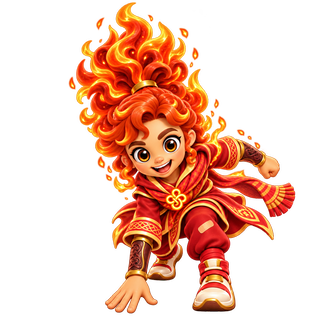
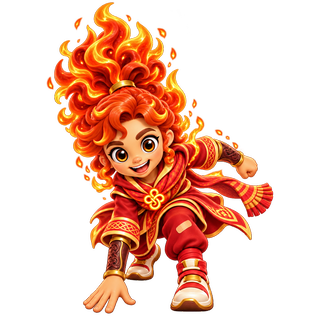
Surge wave 1 complete: Nova and Tidal for all seven Keepers (Codex brief 15)
Codex's final brief 15 set replaces the part-1 forms: fourteen figures,
each placed by face to match its Keeper's normal sprite, feet on the
same line. Sina's Tidal lands, so every Keeper is playable again (the
picker greys out none). Codex's 14 icons are filed for the HUD later.

diff --git a/level1/index.html b/level1/index.html
@@ -5202,16 +5202,16 @@ const FORM = { fire:'Nova', water:'Tidal', wood:'Wild', earth:'Titan', metal:'Ch
 const FORM_PAL = { fire:['#FF8A3A', '#FFB35A', '#FF6A2A', '#FFD08A', '#FF9A4A'], water:['#4E9BE0', '#8FD0FF', '#2F78C8', '#BFE6FF', '#5FB0F0'],
   wood:['#6FBF4A', '#A8E07A', '#4E9A34', '#C8F09A', '#7CCB5A'], earth:['#E6B23A', '#F5D27A', '#C8902A', '#FFE2A0', '#E8B85A'],
   metal:['#C9D3DB', '#E8EEF6', '#9AA8B8', '#FFFFFF', '#B8C4D8'] };
-// the forms Codex has painted so far (brief 15: every Nova, and every Tidal but Sina's; brief 16 brings Wild, Titan and
+// the forms Codex has painted so far (brief 15, complete 2026-10-07: Nova and Tidal for all seven; brief 16 brings Wild, Titan and
 // Chrome); until a form's art lands, its poster and its ride show the Keeper in the element's light
-const SURGE_ART = { 1:['nova', 'tidal'], 2:['nova', 'tidal'], 3:['nova', 'tidal'], 4:['nova', 'tidal'], 5:['nova', 'tidal'], 6:['nova', 'tidal'], 7:['nova'] };
+const SURGE_ART = { 1:['nova', 'tidal'], 2:['nova', 'tidal'], 3:['nova', 'tidal'], 4:['nova', 'tidal'], 5:['nova', 'tidal'], 6:['nova', 'tidal'], 7:['nova', 'tidal'] };
 const formKey = () => FORM[keeperEl].toLowerCase();
 // a form only surges once Codex has painted it; until then this Keeper and element have no Surge at all (A, 2026-10-07: "since
 // none of the images are done we can hold off on the transformations that dont have them yet")
 const surgeArt = () => (SURGE_ART[keeper] || []).includes(formKey());
 function formArt() {
   const k = formKey(), n = 'k' + keeper + '-' + k;
-  if ((SURGE_ART[keeper] || []).includes(k)) { if (!IMG[n]) load(n, `art4/surge/k${keeper}-${k}.png?v=2`); if (ok(IMG[n])) return IMG[n]; }
+  if ((SURGE_ART[keeper] || []).includes(k)) { if (!IMG[n]) load(n, `art4/surge/k${keeper}-${k}.png?v=3`); if (ok(IMG[n])) return IMG[n]; }
   return IMG['k' + keeper];
 }
 const SG = () => S.surge || (S.surge = { q:0, ready:false, used:false, on:null });
